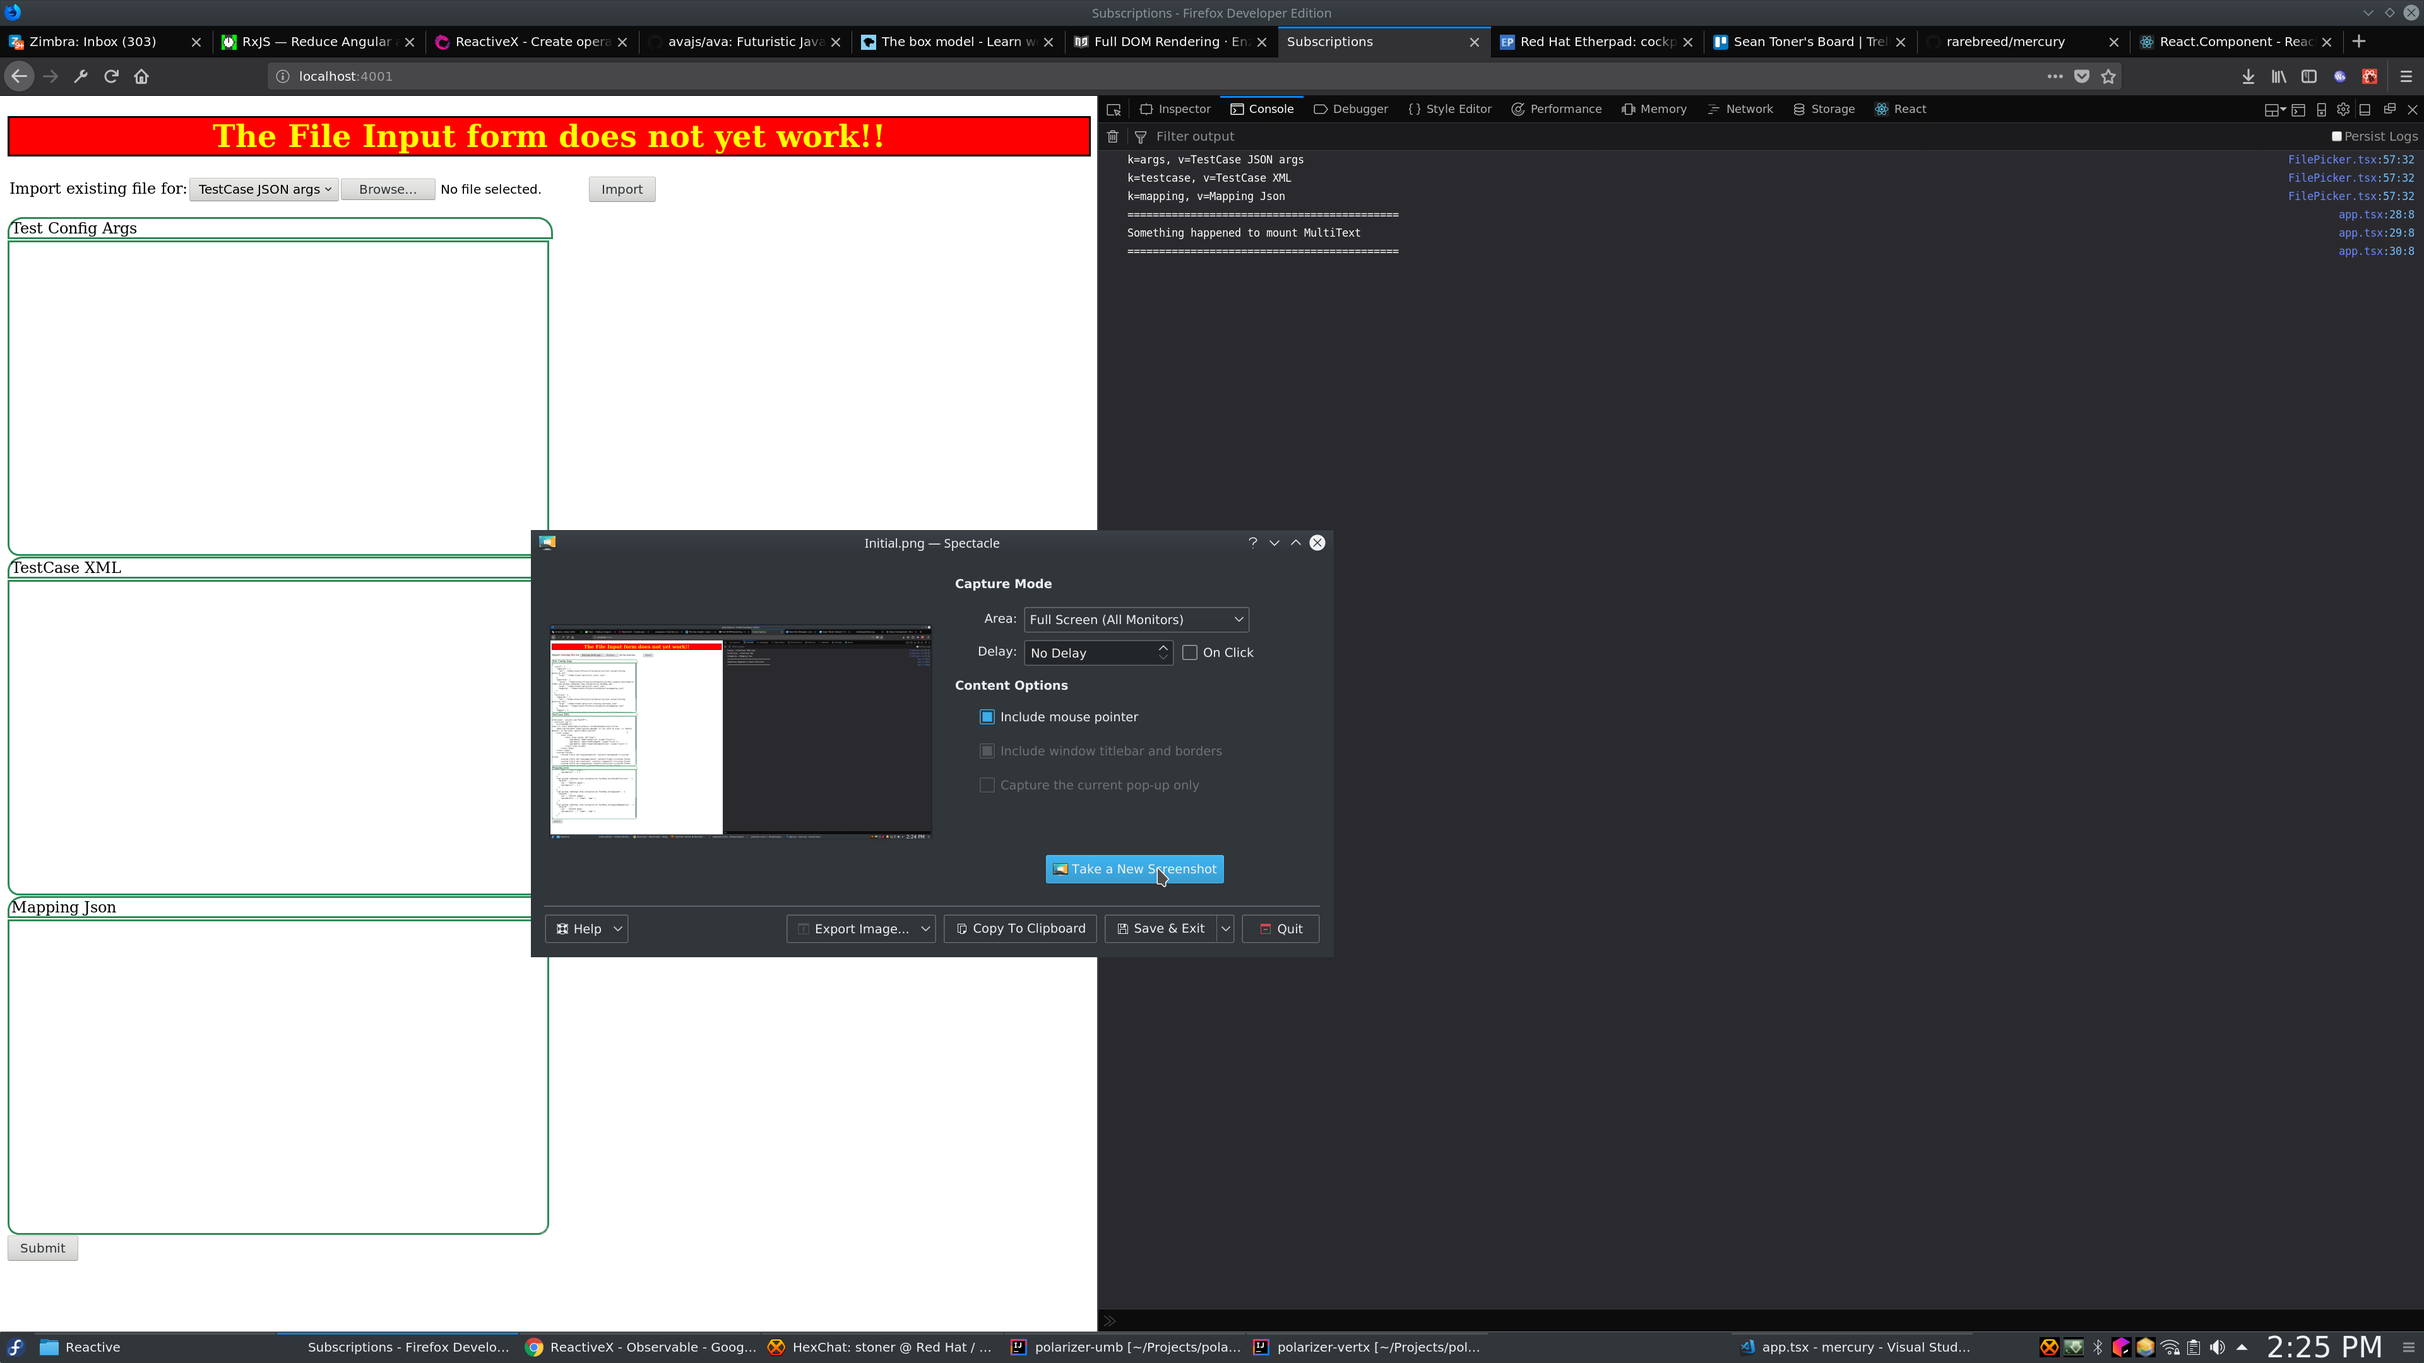
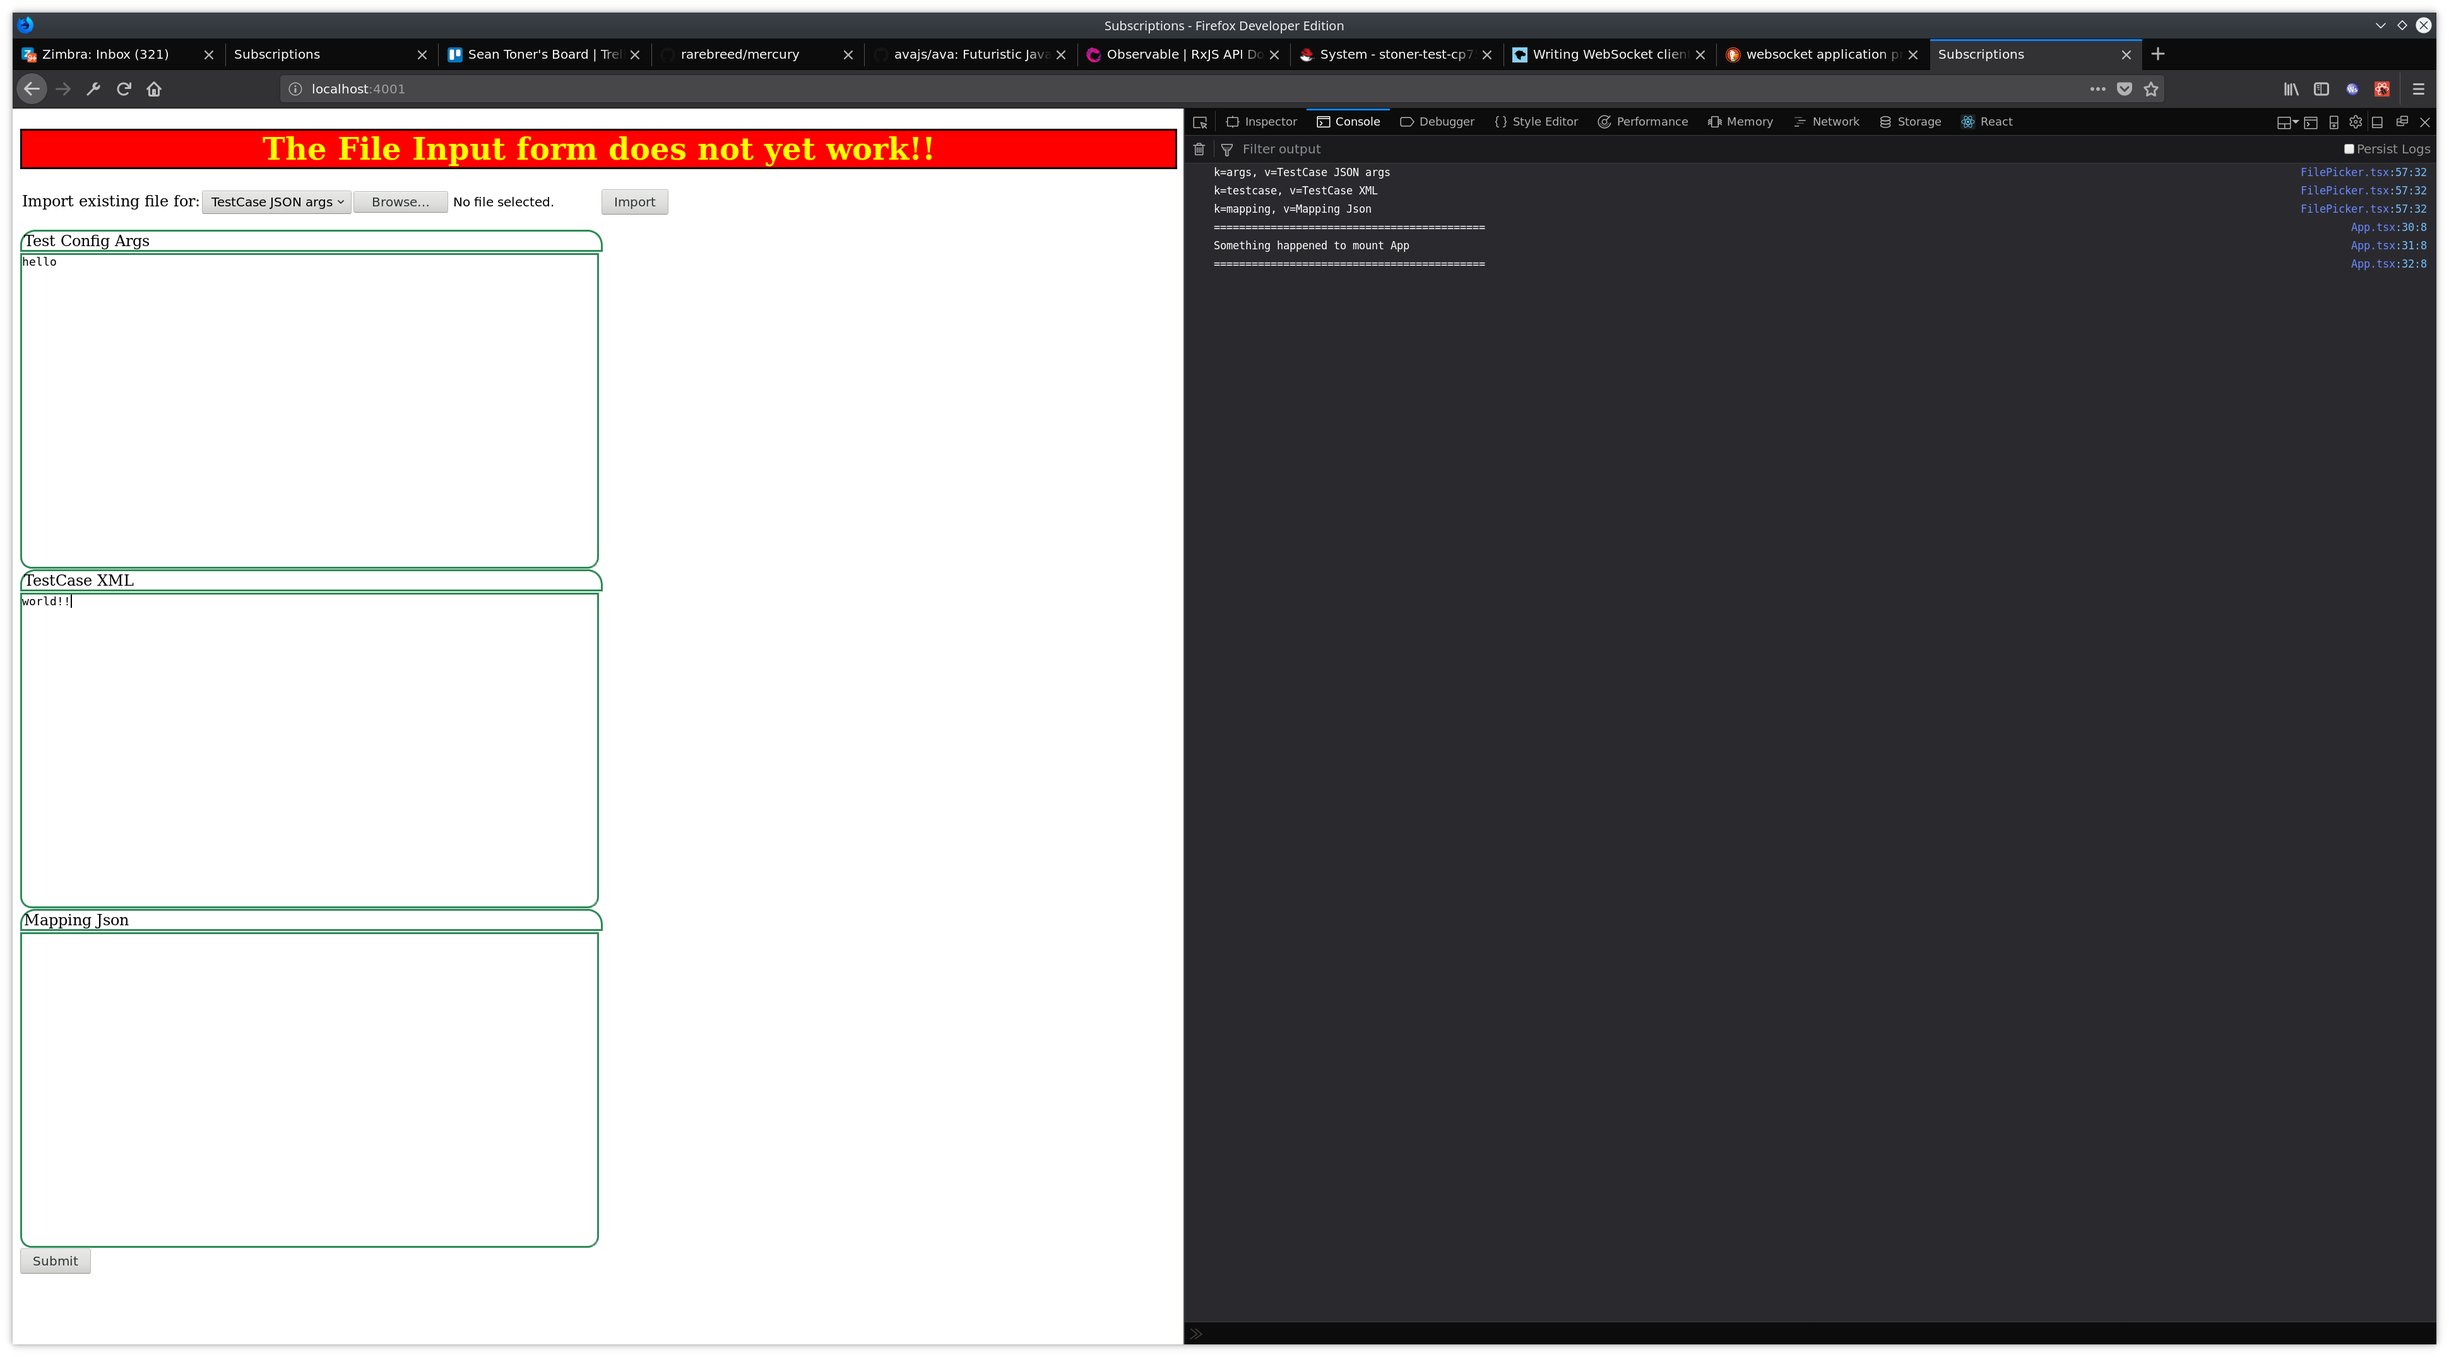
Got the jsdom monkey patch to work.  More readme

Changed region(s): [[0.0, 0.0, 1.0, 1.0]]

diff --git a/app/components/App.tsx b/app/components/App.tsx
@@ -1,29 +1,32 @@
 import * as React from 'react';
-import * as ReactDOM from 'react-dom';
 import * as Rx from 'rxjs/Rx';
-import { MultiText } from './components/MultiText';
-import { FilePicker } from './components/FilePicker';
-import { makeRequest, TextMessage } from './libs/default-values';
+import { MultiText } from './MultiText';
+import { FilePicker } from './FilePicker';
+import { makeRequest, TextMessage } from '../libs/default-values';
 
 interface RowCols {
     cols: number;
     rows: number;
 }
 
-class App extends React.Component<RowCols, {}> {
+export class App extends React.Component<RowCols, {}> {
     args: Map<string, MultiText>;
     textState: Map<string, Rx.BehaviorSubject<string>>;
     message$: Rx.Observable<TextMessage>;
     message: TextMessage;
-    cancel: Rx.Subscription | null;
+    cancel: Map<string, Rx.Subscription | null>;
     mount$: Rx.BehaviorSubject<number>;
+    ws: Map<string, WebSocket>;
+    umbOutput: string;
+    umbMsg$: Rx.Observable<string>;
 
     constructor(props: RowCols) {
         super(props);
         this.args = new Map();
         this.textState = new Map();
-        this.cancel = null;
+        this.cancel = new Map();
         this.mount$ = new Rx.BehaviorSubject(0);
+        this.ws = new Map();
     }
 
     componentDidMount() {
@@ -59,53 +62,78 @@ class App extends React.Component<RowCols, {}> {
             });
     }
 
+    setupWebSocket = (key: string, request: TextMessage, url: string = 'ws://localhost:9000/testcase/ws/import') => {
+        console.log('Going to send message over websocket');
+        let ws = new WebSocket(url);
+        ws.onmessage = (event) => {
+            console.log(event.data);
+        };
+        ws.onopen = (event) => {
+            ws.send(JSON.stringify(request));
+            console.log('Sent data over websocket');
+        };
+        this.ws.set(key, ws);
+    }
+
     /**
      * Once all the arguments have been finalized, when the Submit button is clicked, all the data will be sent
      * over the websocket to polarizer
      */
     onSubmit = (event: React.FormEvent<HTMLFormElement>) => {
         // Accumulate all textState Observables emitted data
-        if (this.cancel === null) {
+        if (this.cancel.get('testcase') === undefined) {
             this.message$ = this.accumulateState();
-            this.cancel = this.message$.subscribe(
+            let unsub = this.message$.subscribe(
                 n => {
                     this.message = n;
-                    console.log(this.message.data);
+                    console.log(this.message);
                 },
                 e => {
                     console.error('Problem getting TextMessage');
                     this.message = makeRequest('', 'error', 'exception', {});
                 }
             );
+            this.cancel.set('testcase', unsub);
         }
 
         console.log(this.message.data);
-        // console.log(`Going to submit the following:\n${JSON.stringify(this.message, null, 2)}`);
+        this.setupWebSocket('testcase', this.message);
         event.preventDefault();
+    }
+
+    onUMBSubmit = (event: React.FormEvent<HTMLFormElement>) => {
+        if (this.cancel.get('umb') === undefined) {
+            console.error('no websocket');
+        }
+        console.log(event);
     }
 
     render() {
         return (
             <div>
-                <FilePicker 
-                    options={
-                        [['args', 'TestCase JSON args'], 
-                        ['testcase', 'TestCase XML'], 
-                        ['mapping', 'Mapping Json']]
-                    } 
-                />
-                <MultiText label="Test Config Args" id="args" {...this.props} />
-                <MultiText label="TestCase XML" id="testcase" {...this.props} />
-                <MultiText label="Mapping Json" id="mapping" {...this.props} />
-                <form onSubmit={this.onSubmit}>
-                    <input type="submit" value="Submit"/>
-                </form>
+                <div>
+                    <FilePicker 
+                        options={
+                            [['args', 'TestCase JSON args'], 
+                            ['testcase', 'TestCase XML'], 
+                            ['mapping', 'Mapping Json']]
+                        } 
+                    />
+                    <MultiText label="Test Config Args" id="args" {...this.props} />
+                    <MultiText label="TestCase XML" id="testcase" {...this.props} />
+                    <MultiText label="Mapping Json" id="mapping" {...this.props} />
+                    <form onSubmit={this.onSubmit}>
+                        <input type="submit" value="Submit"/>
+                    </form>
+                </div>
+                <div>
+                    <MultiText label="Unified Message Bus config" id="umb-out" {...this.props}/>
+                    <form onSubmit={this.onUMBSubmit}>
+                        <input type="submit" value="Submit"/>
+                    </form>
+                    <p>Initial</p>
+                </div>
             </div>
         );
     }
 }
-
-ReactDOM.render(
-    <App cols={100} rows={50} />,
-    document.getElementById('app')
-);

diff --git a/app/components/MultiText.tsx b/app/components/MultiText.tsx
@@ -1,6 +1,5 @@
 import * as React from 'react';
 import * as Rx from 'rxjs/Rx';
-// import '../assets/css/default.css';
 import { defaultXml, defaultMapping } from '../libs/default-values';
 
 export interface MTProps {
@@ -60,32 +59,33 @@ export class MultiText extends React.Component<MTProps, {args: string}> {
 
     defaultArgs = (): string => {
         let args = {
-            xunit: {
-                importer: {
-                    xml: '/home/stoner/Projects/testpolarize/test-output/testng-polarion.xml',
-                    args: '/home/stoner/polarizer-xunit.json' 
-                },
-                generate: {
-                    // tslint:disable-next-line:max-line-length
-                    focus: '/home/stoner/Projects/testpolarize/test-output/junitreports/TEST-com.github.redhatqe.rhsm.testpolarize.TestReq.xml',
-                    args: '/home/stoner/polarizer-xunit.json',
-                    mapping: '/home/stoner/Projects/testpolarize/mapping.json'
+            project: 'PLATTP',
+            author: 'stoner',
+            packages: [
+              ''
+            ],
+            servers: {
+                polarion: {
+                    url: 'https://polarion-devel.engineering.redhat.com/polarion',
+                    user: '',
+                    password: ''
                 }
             },
             testcase: {
-                importer: {
-                    xml: '/home/stoner/Projects/testpolarize/test-output/testng-polarion.xml',
-                    args: '/home/stoner/polarizer-testing-testcase.json',
-                    mapping: '/home/stoner/Projects/testpolarize/mapping.json'
+                endpoint: '/import/testcase',
+                timeout: 300000,
+                enabled: false,
+                selector: {
+                    name: 'rhsm_qe',
+                    value: 'testcase_importer'
                 },
-                mapper: {
-                    focus: '/home/stoner/Projects/testpolarize/build/libs/testpolarize-0.1.0-SNAPSHOT-all.jar',
-                    mapping: '/home/stoner/Projects/testpolarize/mapping.json',
-                    args: '/home/stoner/polarizer-testcase.json'
+                title: {
+                    prefix: '',
+                    suffix: ''
                 }
             }
         };
-        
+          
         return JSON.stringify(args, null, 2);
     }
 

diff --git a/app/libs/state-management.ts b/app/libs/state-management.ts
@@ -1,0 +1,32 @@
+/**
+ * This module is to be used as a reuseable class to bridge rxjs stream <=> websockets
+ */
+
+import * as Rx from 'rxjs/Rx';
+import { Map } from 'immutable';
+
+interface Lookup {
+    component: string;   // name of the component the stream belongs to
+    streamName: string;  
+}
+
+export class Dispatcher {
+    streams: Map<Lookup, Rx.Observable<any>>;
+
+    constructor() {
+        this.streams = Map<Lookup, Rx.Subject<any>>();
+    }
+
+    register = (lookup: Lookup, stream: Rx.Subject<any>) => {
+        this.streams = this.streams.set(name, stream);
+    }
+}
+
+export class WSBridge<T> {
+    ws: WebSocket;
+    stream$: Rx.Subject<T>;
+
+    constructor(starting: T, dispatcher: Dispatcher) {
+        this.stream$ = new Rx.BehaviorSubject(starting);
+    }
+}

diff --git a/test/multitext.test.tsx b/test/multitext.test.tsx
@@ -3,8 +3,24 @@ import * as React from 'react';
 import { mount } from 'enzyme';
 import { MultiText } from '../app/components/MultiText';
 
+// TODO: Make a .d.ts file for cockpit
+interface Cockpit {
+    cockpit: any;
+}
+
+type MonkeyPatch = Window & Cockpit;
+
+const makePatch = (win: Window = window): MonkeyPatch => {
+    let w = {cockpit: null};
+    return Object.assign(w, win);
+};
+
+const windoe = makePatch();
+const cockpit = windoe.cockpit;
+
 test('Test MultiText textarea', (t) => {
     const wrapper = mount(<MultiText id="test" label="Just a test" rows={30} cols={80}/>);
+    console.log(cockpit);
     // Make sure when calling this.setState, we pass the callback
     let state$ = MultiText.emitters.get('test');
     if (state$ === undefined) {

diff --git a/test/helpers/setup-test-env.js b/test/helpers/setup-test-env.js
@@ -7,6 +7,7 @@ const jsdom = new JSDOM(`
     <body>
         <noscript>You need to enable JavaScript to run this app.</noscript>
         <div id="app"></div>
+        <script src="../assets/cockpit.js"></script>
     </body>
 </html>
 `)
@@ -29,8 +30,7 @@ window.Math = Math;
 global.window = window;
 global.document = window.document;
 // Hack to load cockpit.js into jsdom
-// global.cockpit = require('../assets/cockpit');
-// global.document.scripts = [{src: ""}]
+global.cockpit = require('../assets/cockpit');
 global.navigator = {
   userAgent: 'node.js',
 };

diff --git a/app/app.tsx b/app/app.tsx
@@ -1,0 +1,9 @@
+import * as React from 'react';
+import * as ReactDOM from 'react-dom';
+import { App } from './components/App';
+import './assets/css/default.css';
+
+ReactDOM.render(
+    <App cols={100} rows={50} />,
+    document.getElementById('app')
+);

diff --git a/app/libs/default-values.tsx b/app/libs/default-values.tsx
@@ -140,3 +140,11 @@ export const makeRequest = ( op: string
         data: JSON.stringify(data, null, 2)
     };
 };
+
+export type UMBData = {
+    topic: string;
+    selector: string;
+    'bus-address': string;
+    action: string;
+    tag: string;
+};

diff --git a/README.md b/README.md
@@ -46,7 +46,8 @@ are some things we can do to make the product easier to test and debug?
 ## Why websockets?
 
 Well, for starters, that's how cockpit (the browser [SPA][-spa]) talks to cockpit (the server, cockpit-ws). All the
-messaging going back and forth is being done as websockets. Therefore, it's not a bad thing to learn about them.
+[messaging going back and forth][-cp-proto] is being done as websockets. Therefore, it's not a bad thing to learn about
+them.
 
 Secondly, websockets, unlike REST, are bidirectional. This enables websockets to do things that traditional http can't
 (though [Server Sent Events][-SSE] can touch on). Websockets are really nice when you want real-time data to be pushed
@@ -90,7 +91,10 @@ this stream of ever flowing data.
 Mobx hides a lot of this complexity, but I've also heard that is its problem.  There's too much "magic" going on.  
 And inevitably, when you start debugging stuff, you need to know how those inner layers work anyway.
 
-I will show an actual rxjs example at the end for how to use rxjs for state management 
+I will show an actual rxjs example at the end for how to use rxjs for state management.  But for now, take a look at this
+high level diagram to get an idea of how you can use rxjs for state management
+
+![Using rxjs for state management][rxjs-dispatch]
 
 ## Why typescript?  What about flow or plain old es2016-es2018?
 
@@ -103,10 +107,14 @@ configuration in your webpack config than with typescript.
 
 But static typing is definitely the way to go. Not only does it enforce documentation (how many times have you looked at
 python code and gone, "now, what am I supposed to pass into that function?"). Any claims that dynamic languages are
-faster to program in rings hollow, once you factor in the head scratching of what tyoes to pass in, grokking the source
-code to figure it out, writing unit tests that are poor type checkers anyways, going through a debugger because you hit
-a bug that could have been found with a compiler, and dealing with an irate customer, because your code hit a runtime
-issue that could have been caught at runtime.
+faster to program in rings hollow, once you factor in:
+
+- the head scratching of what types to pass in (I'm especially looking at you **kwargs)
+- grokking the source code to figure it out
+- writing unit tests that are poor type checkers anyways
+- making sure you keep your dosctrings up to date with refactorings (you do document your functions dont you?)
+- going through a debugger because you hit a bug that could have been found with a compiler
+- dealing with an irate customer, because your code hit a runtime issue that could have been caught at runtime.
 
 Just say no to dynamic programming. And remember, friends dont let friends dynamic type.
 
@@ -697,8 +705,10 @@ style tests to know when an element appears other than to waste cycles polling.
 [-ws]: https://developer.mozilla.org/en-US/docs/Web/API/WebSockets_API
 [-set-state]: https://reactjs.org/docs/react-component.html#setstate
 [-react-evts]: https://reactjs.org/docs/state-and-lifecycle.html
+[-cp-protp]: http://cockpit-project.org/blog/protocol-for-web-access-to-system-apis.html
 [startup]: https://github.com/rarebreed/mercury/blob/master/docs/images/Initial.png
 [clearedout]: https://github.com/rarebreed/mercury/blob/master/docs/images/Cleared-before-submit.png
 [nothing-happened]: https://github.com/rarebreed/mercury/blob/master/docs/images/ChangedText-Nothing-In-Console.png
 [clicked-submit]: https://github.com/rarebreed/mercury/blob/master/docs/images/Clicked-Submit.png
 [onchange]: https://github.com/rarebreed/mercury/blob/master/docs/images/OnChange-Shows-In-Console.png
+[rxjs-dispatch]: https://github.com/rarebreed/mercury/blob/master/docs/images/rxjs-state-management.png
